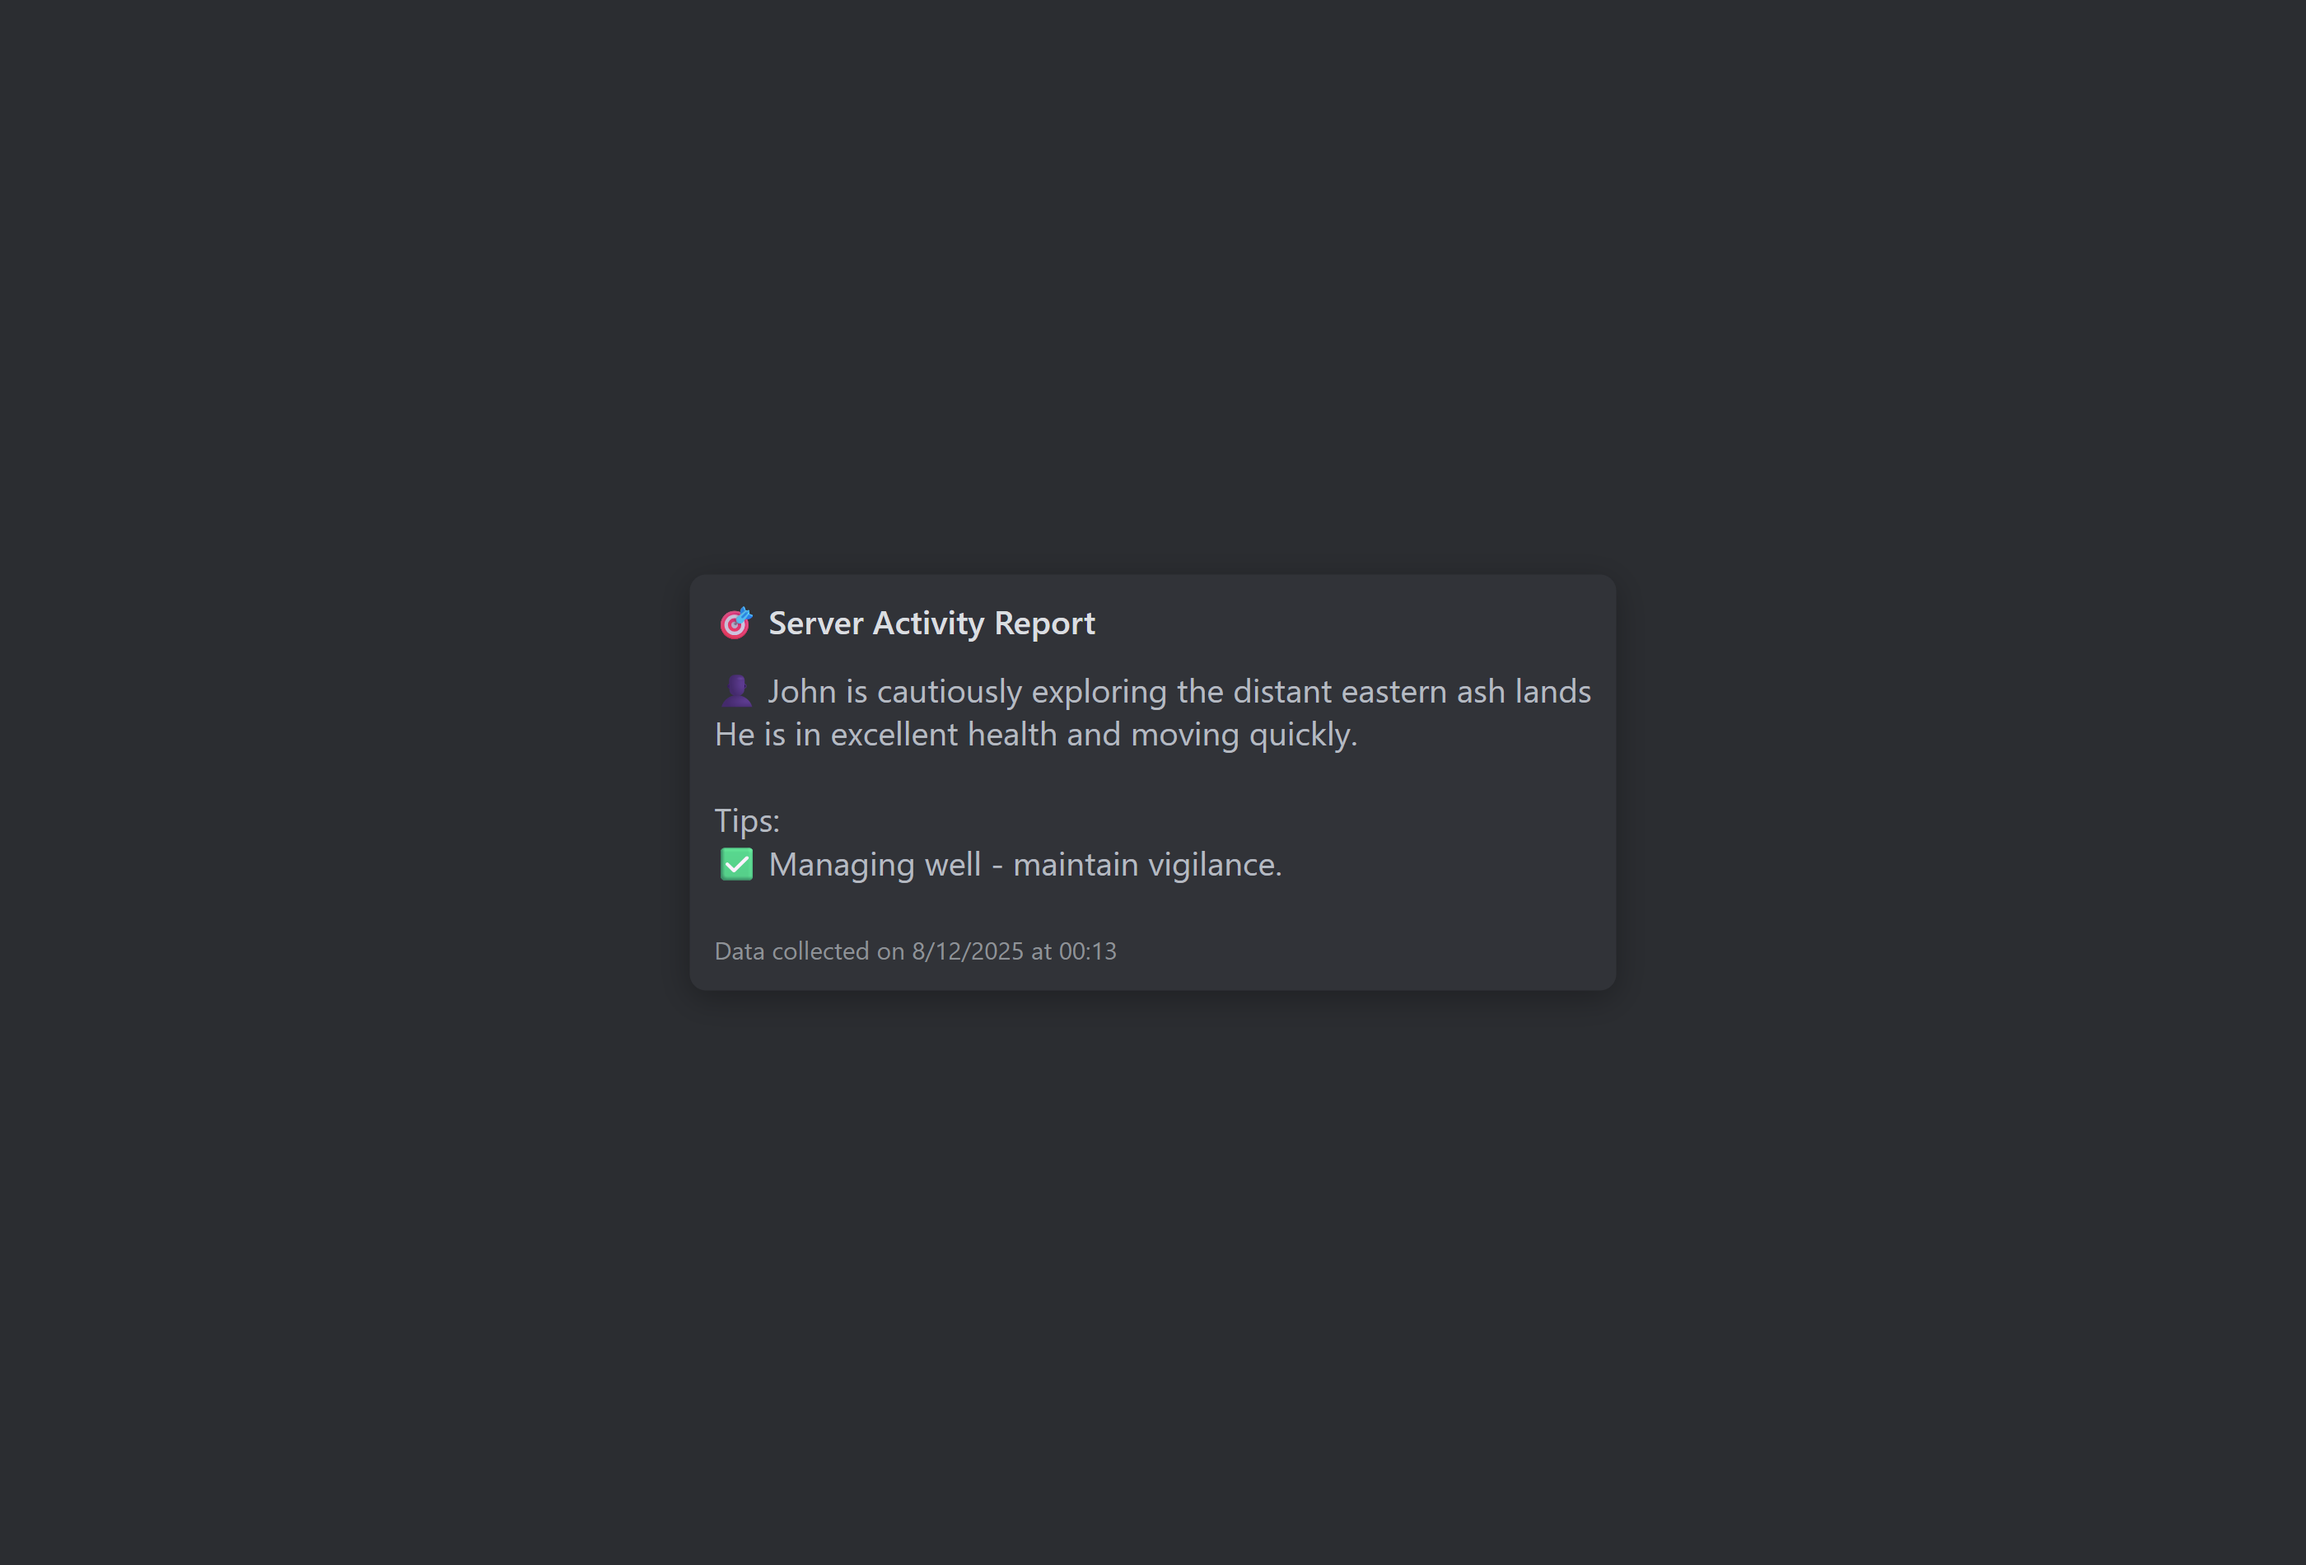
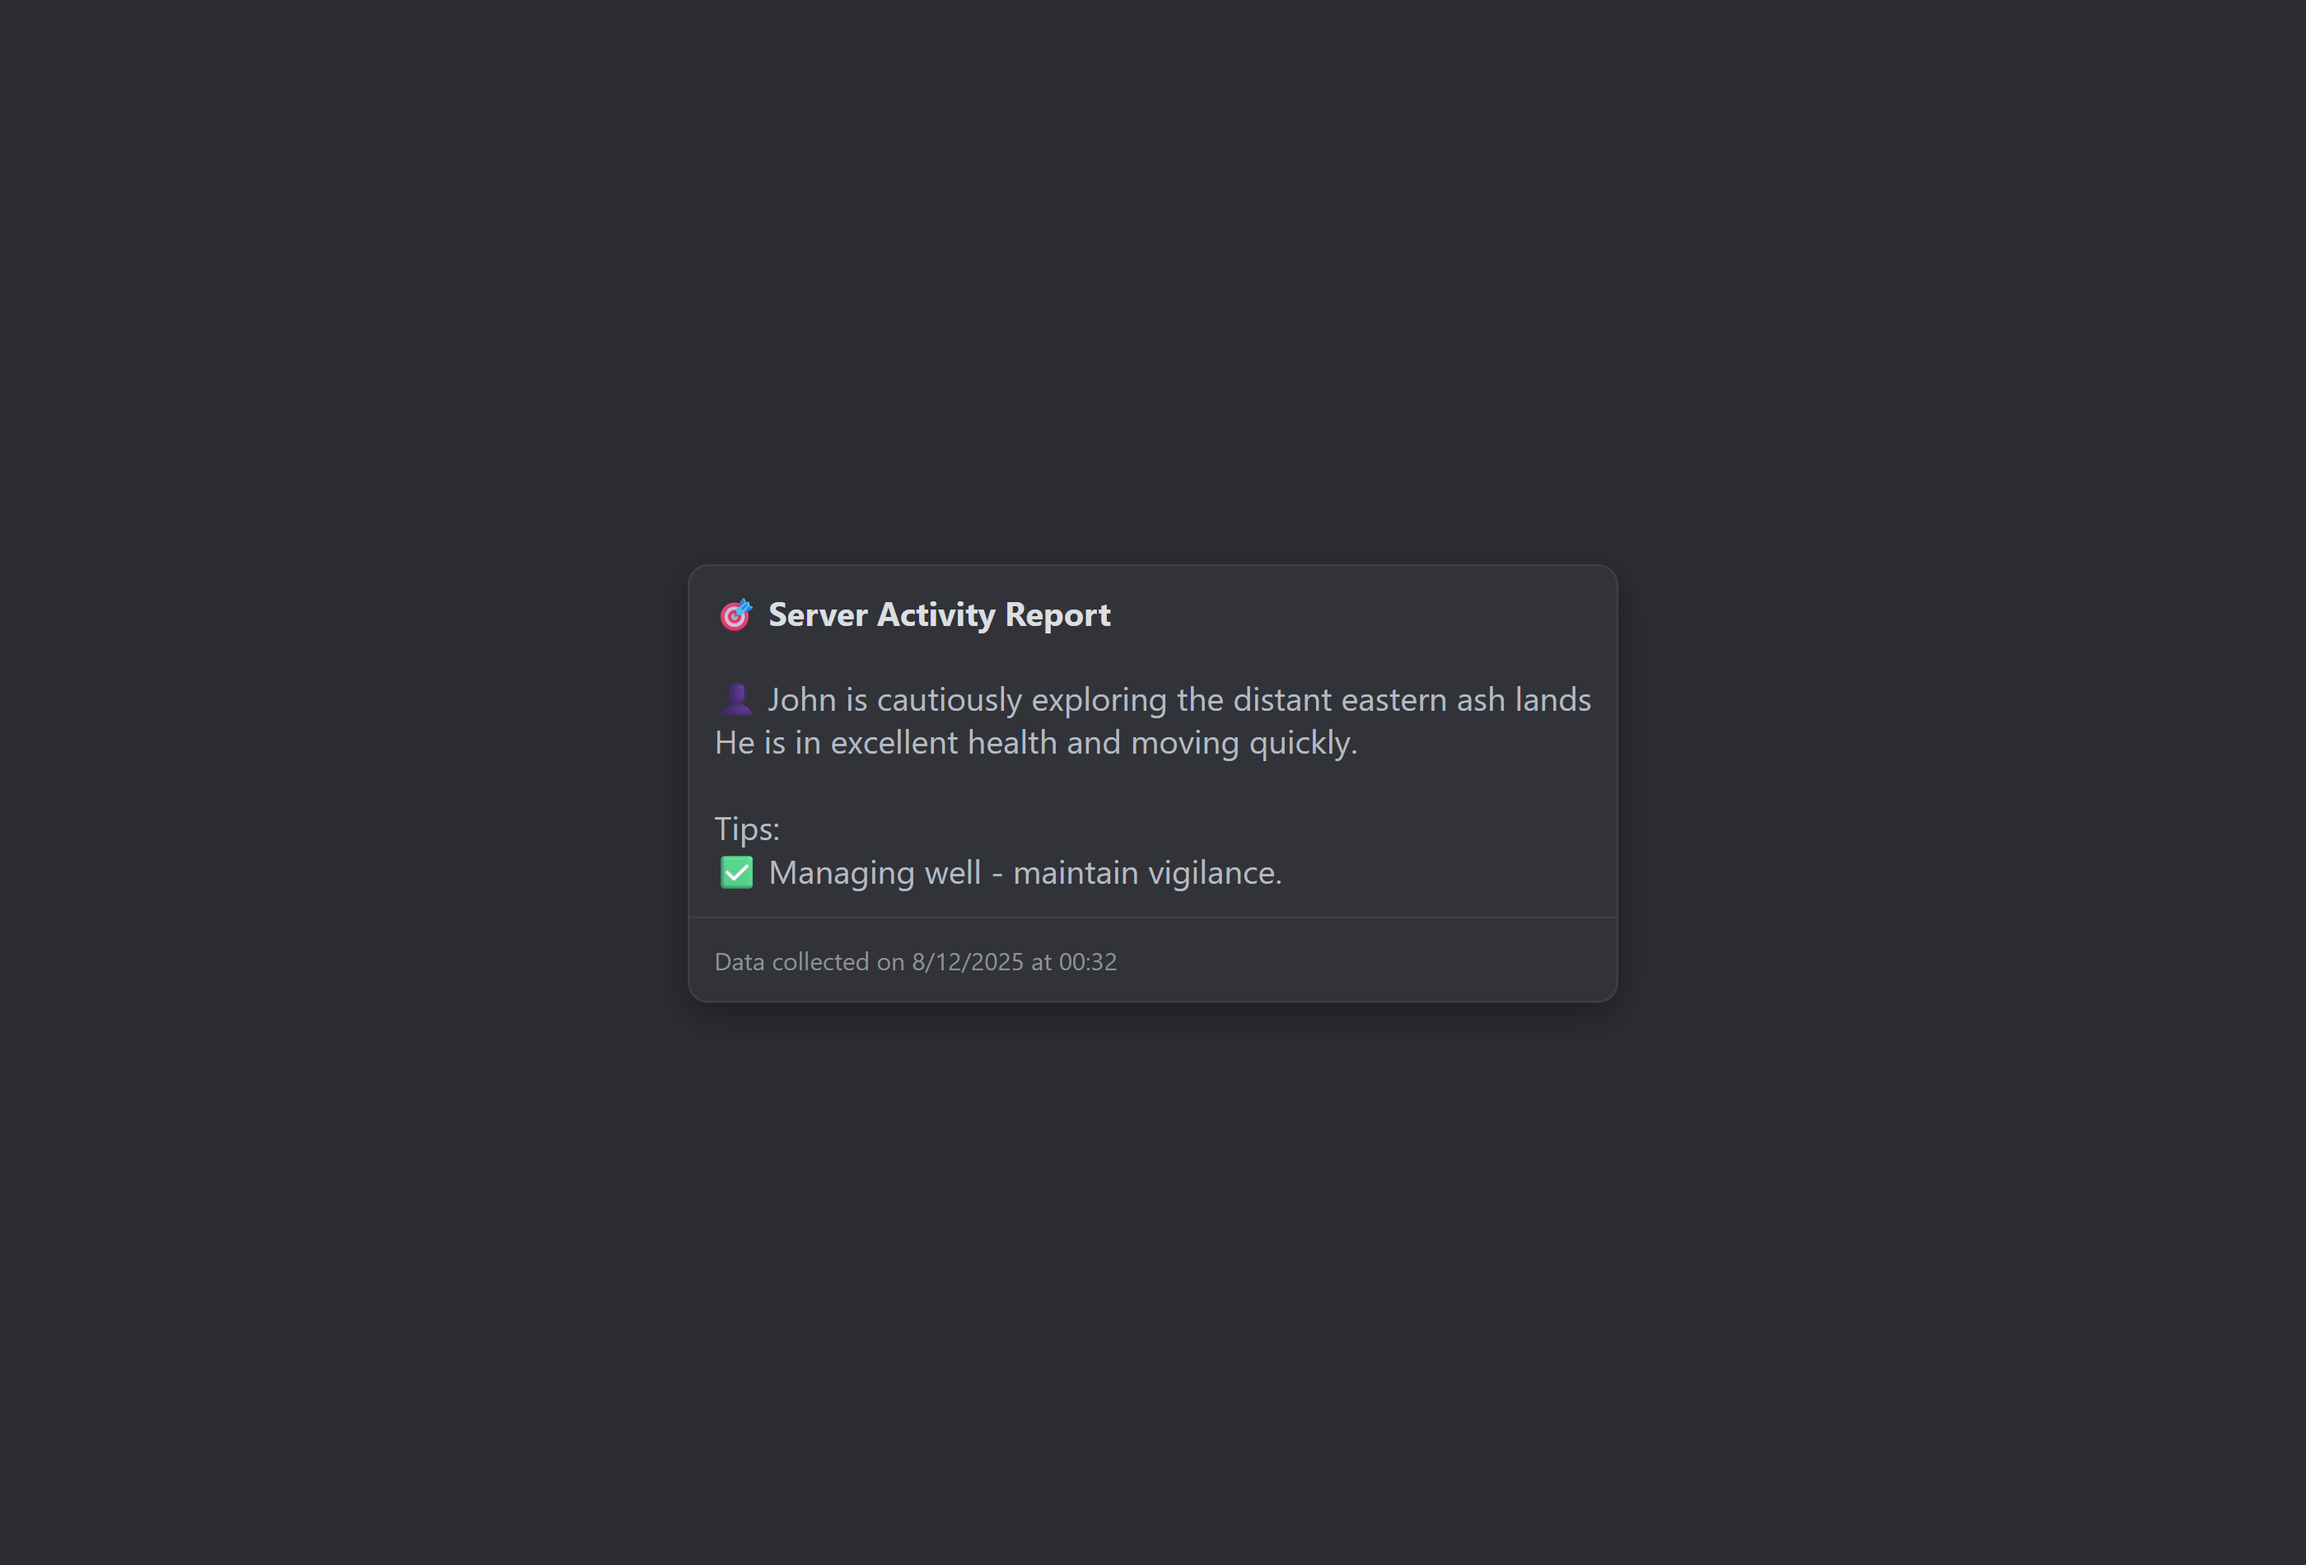
snapshots: refine card styling and reduce chart height for better balance

Changed region(s): [[0.3107, 0.4347, 0.6836, 0.4968], [0.3107, 0.5279, 0.5593, 0.6211], [0.3107, 0.3726, 0.4971, 0.4037]]

diff --git a/scripts/snapshot-embeds.js b/scripts/snapshot-embeds.js
@@ -39,15 +39,15 @@ function terminalStartupCard(){
 
 function htmlFor(embed, opts = {}) {
   const pad = 12;
-  const maxWidth = opts.maxWidth || 880; // wider card for higher-res screenshots
-  const chartHeight = opts.chartHeight || 300;
+  const maxWidth = opts.maxWidth || 900; // balanced width for crispness
+  const chartHeight = opts.chartHeight || 240; // smaller chart area to avoid overpowering
   return `<!doctype html><meta charset="utf-8"/><style>
   body{background:#2b2d31;margin:0;display:flex;align-items:center;justify-content:center;height:100vh;font-family:system-ui,-apple-system,Segoe UI,Roboto,Ubuntu,Cantarell,'Noto Sans',sans-serif}
-  .card{max-width:${maxWidth}px;background:#313338;color:#dbdee1;border-radius:8px;box-shadow:0 4px 16px rgba(0,0,0,.3);}
-  .title{padding:${pad}px ${pad}px 0 ${pad}px;font-weight:600}
+  .card{max-width:${maxWidth}px;background:#313338;color:#dbdee1;border-radius:10px;box-shadow:0 6px 18px rgba(0,0,0,.35);border:1px solid rgba(255,255,255,0.06);overflow:hidden}
+  .title{padding:${pad}px ${pad}px 8px ${pad}px;font-weight:700}
   .desc{white-space:pre-wrap;padding:${pad}px;color:#b5bac1}
-  .footer{padding:${pad}px;color:#8e9297;font-size:12px}
-  .image{display:block;width:100%;height:auto;aspect-ratio:${maxWidth}/${chartHeight};object-fit:cover}
+  .footer{padding:${pad}px;color:#8e9297;font-size:12px;border-top:1px solid rgba(255,255,255,0.06)}
+  .image{display:block;width:100%;height:auto;aspect-ratio:${maxWidth}/${chartHeight};object-fit:cover;border-top-left-radius:10px;border-top-right-radius:10px}
   </style><div class="card">
   <div class="title">${escapeHtml(embed.title||'')}</div>
   ${embed.image?`<img class="image" src="https://dummyimage.com/${maxWidth}x${chartHeight}/212121/ffffff&text=Chart" alt="image"/>`:''}
@@ -77,7 +77,7 @@ async function run() {
   // Include terminal snapshot first
   const all = [{ name: 'terminal-startup', embed: terminalStartupCard() }, ...sampleEmbeds()];
   for (const s of all) {
-  const html = htmlFor(s.embed, { maxWidth: 980, chartHeight: 340 });
+  const html = htmlFor(s.embed, { maxWidth: 900, chartHeight: 240 });
       try {
         await page.setContent(html, { waitUntil: 'domcontentloaded' });
         const filename = `${s.name}.png`;
